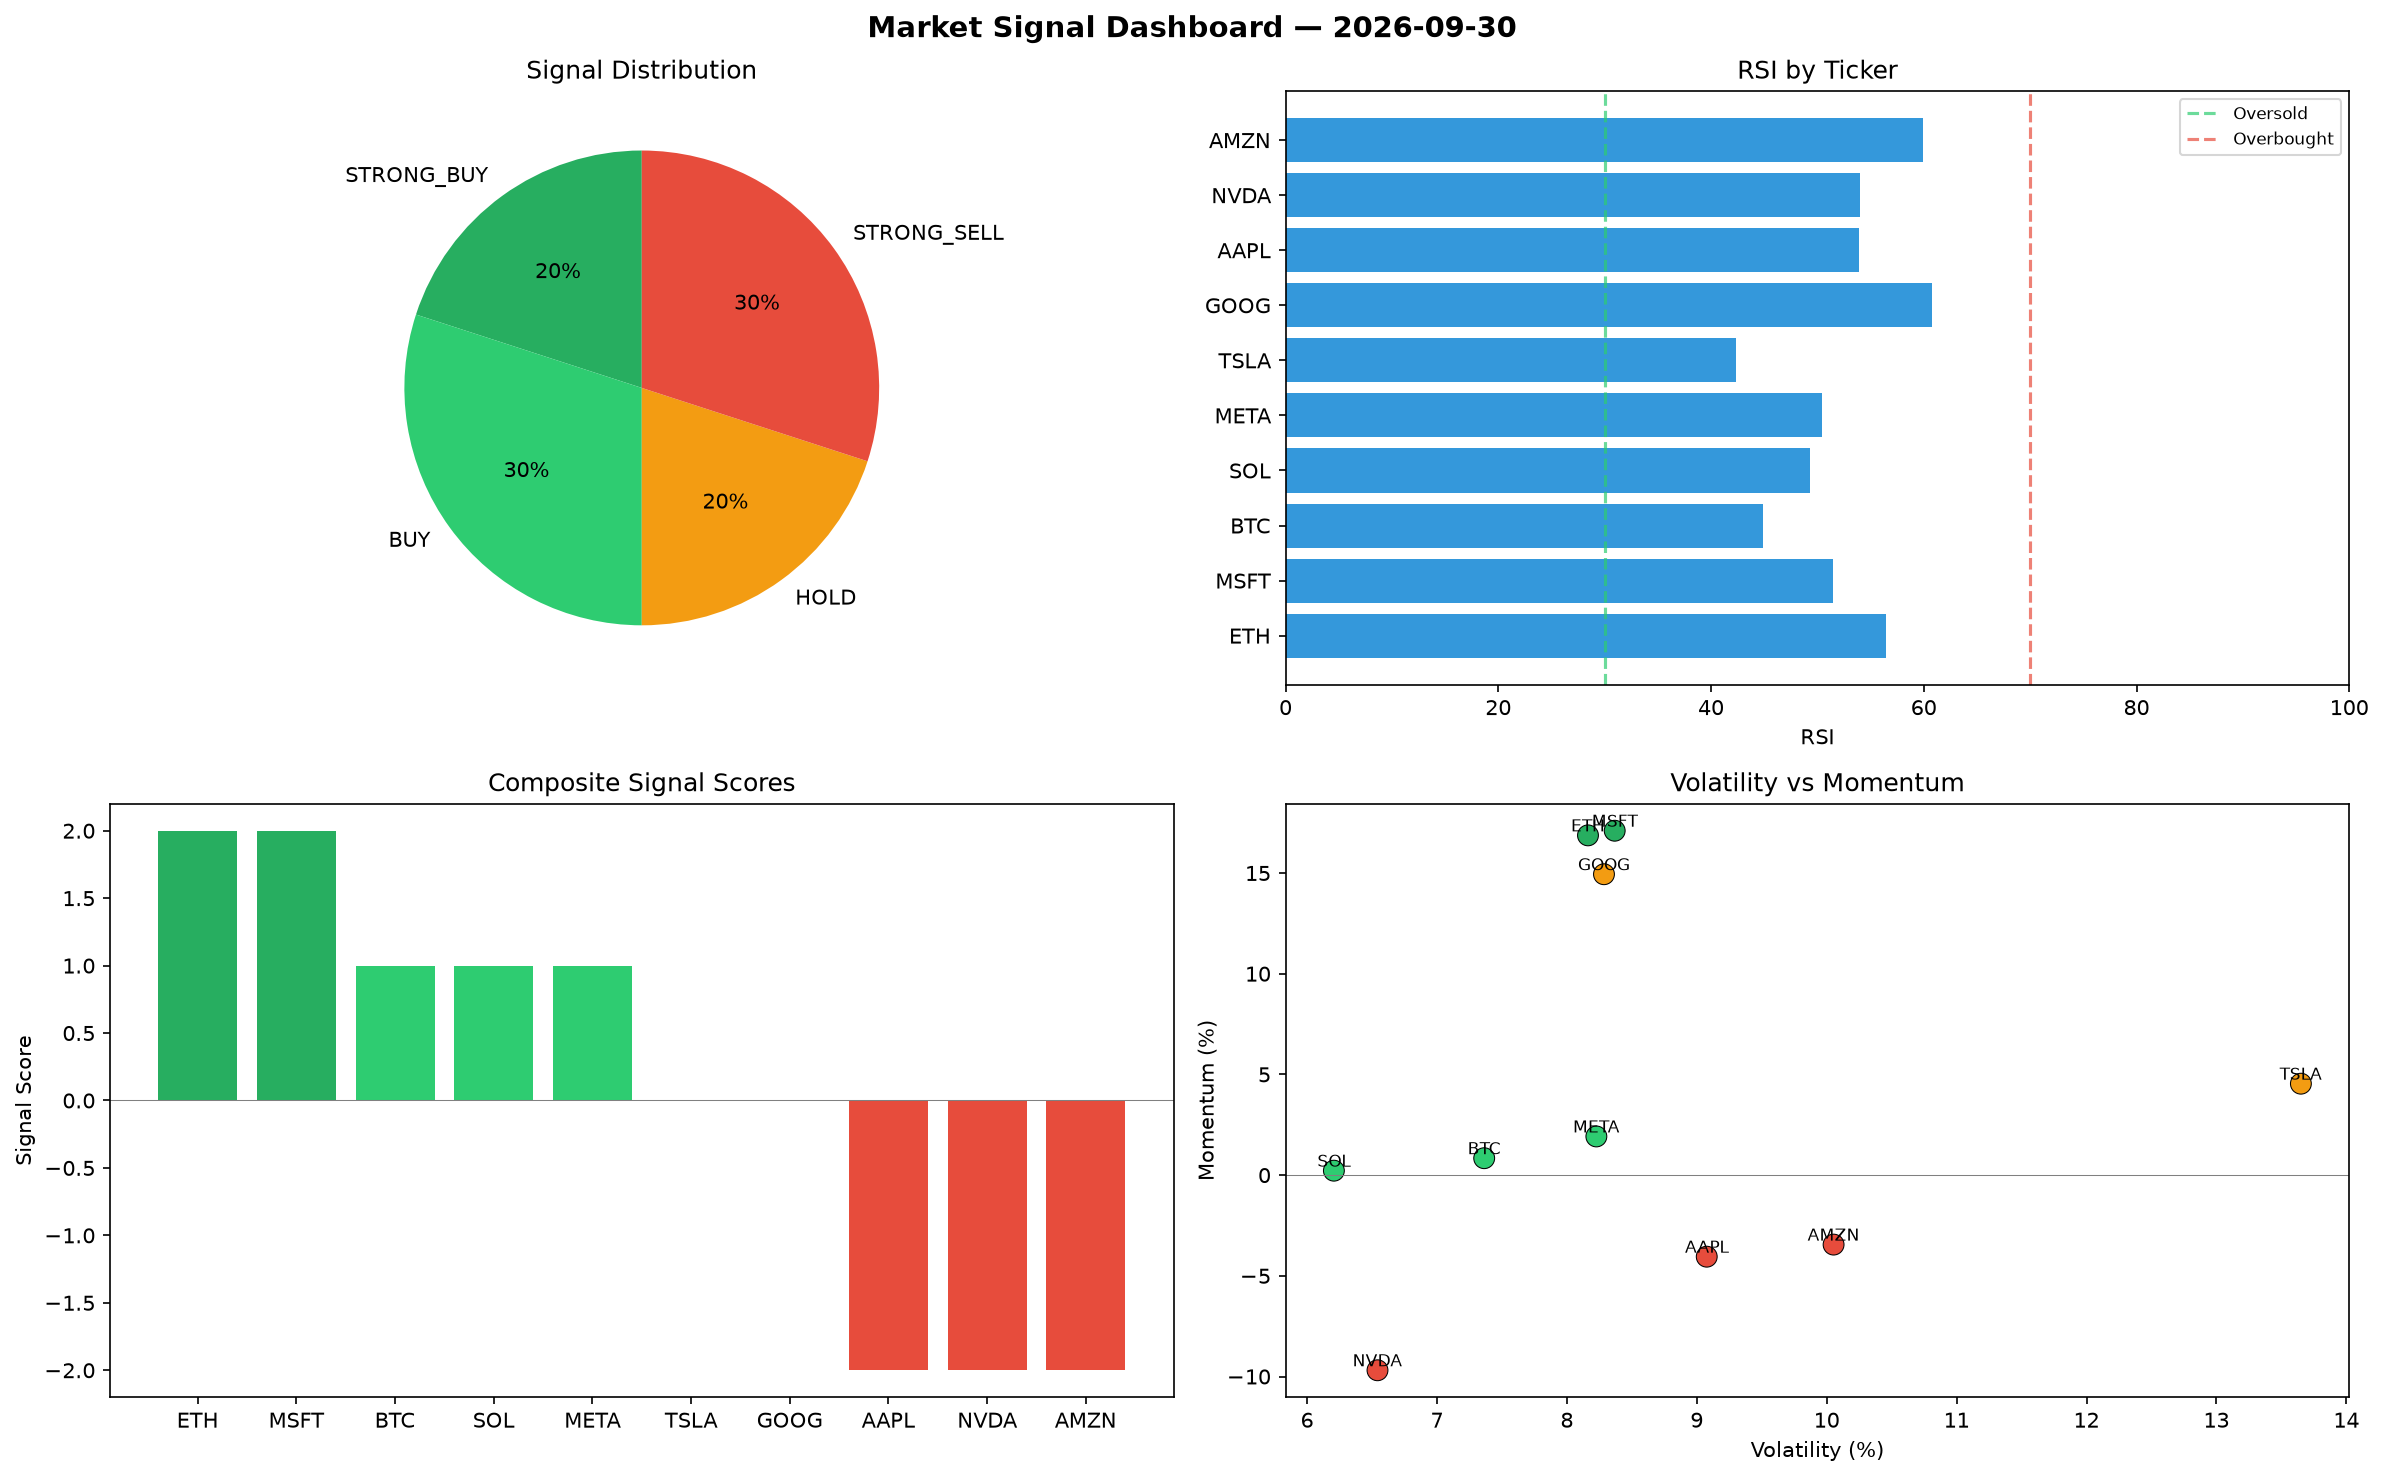
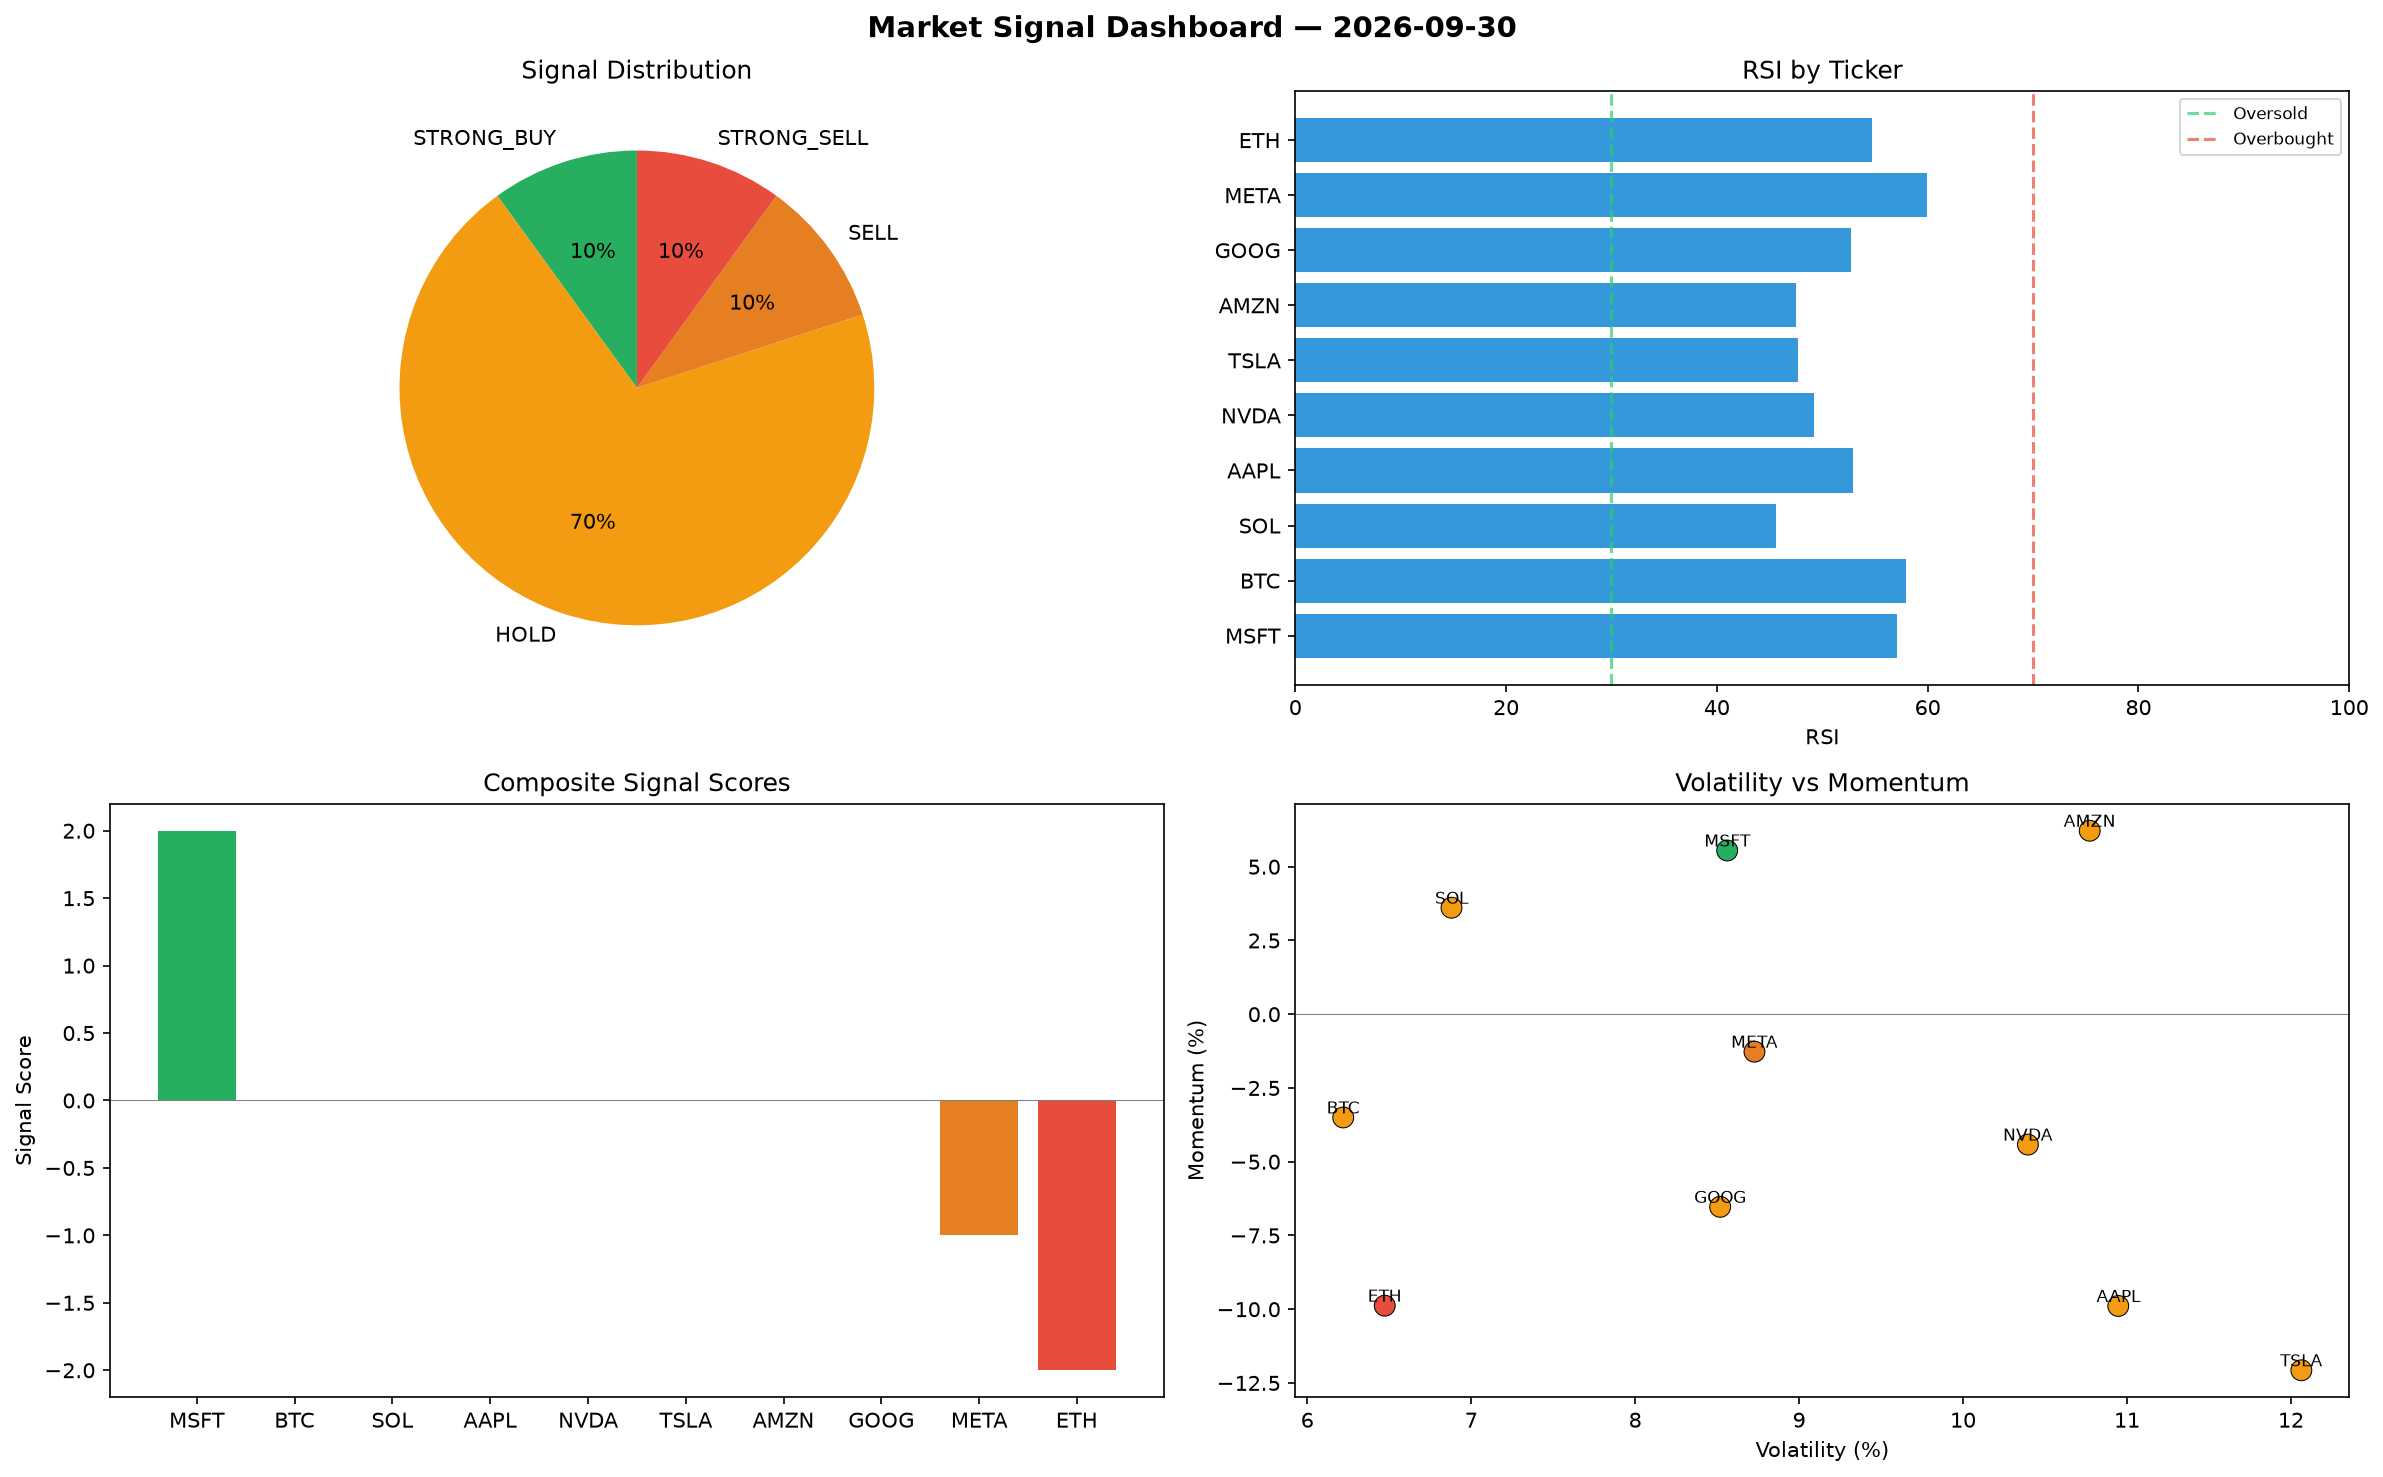
automated-bots: market signals 2026-09-30T19:33

diff --git a/logs/2026-09-30.md b/logs/2026-09-30.md
@@ -1,6 +1,6 @@
 # Market Signal Report — 2026-09-30
 
-**Run ID:** `8a3c7f58d1` | **Buy:** 5 | **Sell:** 3 | **Hold:** 2
+**Run ID:** `78b77b7d00` | **Buy:** 1 | **Sell:** 2 | **Hold:** 7
 
 ![Dashboard](2026-09-30_dashboard.png)
 
@@ -8,28 +8,28 @@
 
 | Ticker | Price | Signal | Score | RSI | Momentum | Confidence |
 |--------|-------|--------|-------|-----|----------|------------|
-| ETH | $2069.74 | **STRONG_BUY** | 2 | 56.48 | 0.1687 | 0.5 |
-| MSFT | $2995.06 | **STRONG_BUY** | 2 | 51.49 | 0.171 | 0.5 |
-| BTC | $2523.4 | **BUY** | 1 | 44.86 | 0.0084 | 0.25 |
-| SOL | $3092.11 | **BUY** | 1 | 49.34 | 0.0022 | 0.25 |
-| META | $3003.25 | **BUY** | 1 | 50.43 | 0.0192 | 0.25 |
-| TSLA | $3578.19 | **HOLD** | 0 | 42.37 | 0.0454 | 0.0 |
-| GOOG | $530.44 | **HOLD** | 0 | 60.75 | 0.1494 | 0.0 |
-| AAPL | $1010.35 | **STRONG_SELL** | -2 | 53.87 | -0.0405 | 0.5 |
-| NVDA | $1631.69 | **STRONG_SELL** | -2 | 54.03 | -0.0969 | 0.5 |
-| AMZN | $3566.12 | **STRONG_SELL** | -2 | 59.91 | -0.0345 | 0.5 |
+| MSFT | $4882.74 | **STRONG_BUY** | 2 | 57.06 | 0.0555 | 0.5 |
+| BTC | $2974.99 | **HOLD** | 0 | 57.93 | -0.035 | 0.0 |
+| SOL | $3574.13 | **HOLD** | 0 | 45.59 | 0.0361 | 0.0 |
+| AAPL | $3559.08 | **HOLD** | 0 | 52.9 | -0.0989 | 0.0 |
+| NVDA | $4132.54 | **HOLD** | 0 | 49.25 | -0.0442 | 0.0 |
+| TSLA | $866.88 | **HOLD** | 0 | 47.72 | -0.1207 | 0.0 |
+| AMZN | $4465.68 | **HOLD** | 0 | 47.47 | 0.0622 | 0.0 |
+| GOOG | $4622.38 | **HOLD** | 0 | 52.74 | -0.0653 | 0.0 |
+| META | $1269.62 | **SELL** | -1 | 59.9 | -0.0127 | 0.25 |
+| ETH | $636.56 | **STRONG_SELL** | -2 | 54.7 | -0.0988 | 0.5 |
 
 ## Delta vs Yesterday
 
 | Ticker | Today | Yesterday | Price Change | Signal Changed |
 |--------|-------|-----------|-------------|----------------|
-| ETH | STRONG_BUY | STRONG_BUY | 📉 -21.33% | — |
-| MSFT | STRONG_BUY | SELL | 📈 3.41% | ⚠ YES |
-| BTC | BUY | STRONG_SELL | 📈 2.78% | ⚠ YES |
-| SOL | BUY | STRONG_BUY | 📈 322.42% | ⚠ YES |
-| META | BUY | BUY | 📉 -22.98% | — |
-| TSLA | HOLD | STRONG_SELL | 📈 63.48% | ⚠ YES |
-| GOOG | HOLD | BUY | 📉 -83.28% | ⚠ YES |
-| AAPL | STRONG_SELL | STRONG_SELL | 📉 -36.03% | — |
-| NVDA | STRONG_SELL | STRONG_BUY | 📉 -3.14% | ⚠ YES |
-| AMZN | STRONG_SELL | STRONG_BUY | 📉 -12.11% | ⚠ YES |
+| MSFT | STRONG_BUY | SELL | 📈 68.59% | ⚠ YES |
+| BTC | HOLD | STRONG_SELL | 📈 21.17% | ⚠ YES |
+| SOL | HOLD | STRONG_BUY | 📈 388.27% | ⚠ YES |
+| AAPL | HOLD | STRONG_SELL | 📈 125.34% | ⚠ YES |
+| NVDA | HOLD | STRONG_BUY | 📈 145.31% | ⚠ YES |
+| TSLA | HOLD | STRONG_SELL | 📉 -60.39% | ⚠ YES |
+| AMZN | HOLD | STRONG_BUY | 📈 10.06% | ⚠ YES |
+| GOOG | HOLD | BUY | 📈 45.66% | ⚠ YES |
+| META | SELL | BUY | 📉 -67.44% | ⚠ YES |
+| ETH | STRONG_SELL | STRONG_BUY | 📉 -75.8% | ⚠ YES |
